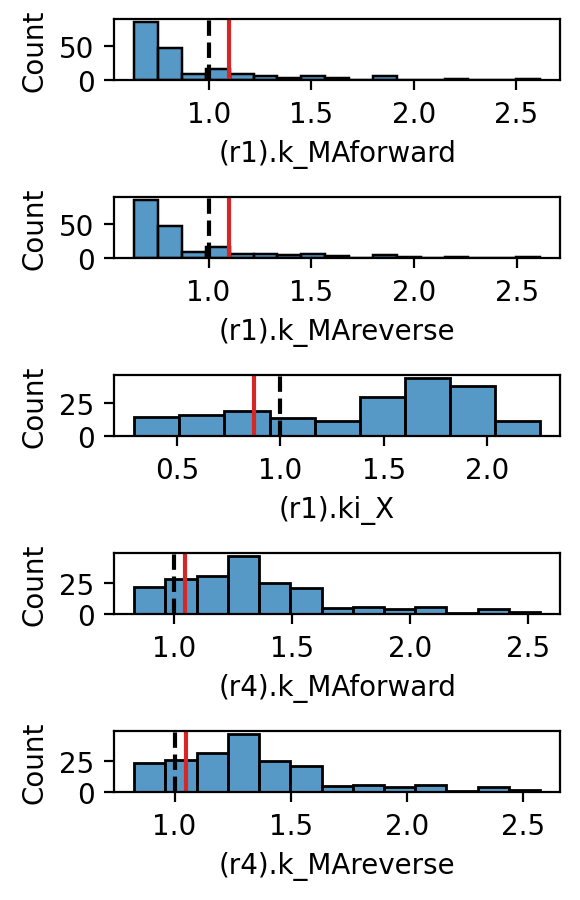
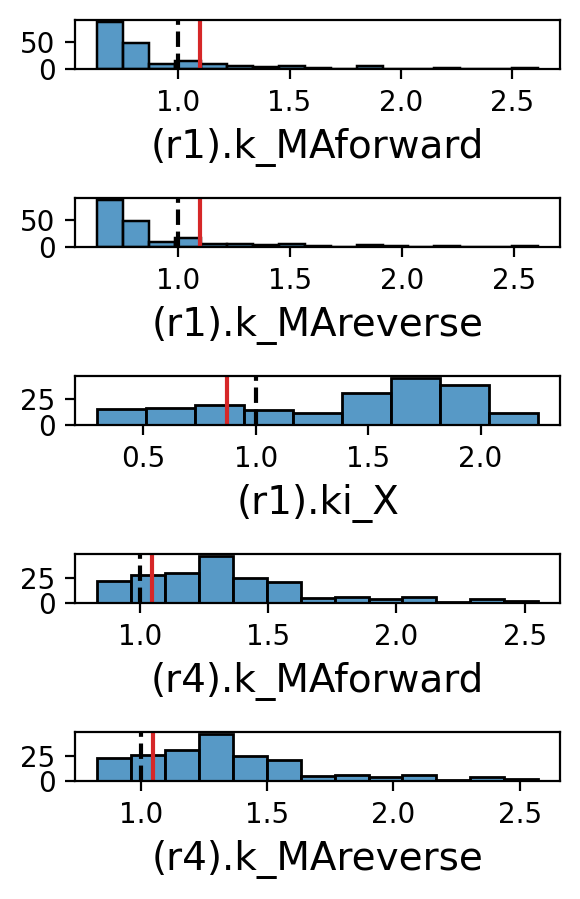
Change visualization of toymodel parameter distributions

Changed region(s): [[0.031, 0.218, 0.9621, 0.7786], [0.031, 0.8098, 0.9621, 0.9967], [0.031, 0.0, 0.9621, 0.1869]]

diff --git a/morsel/toymodel/rediscovery_test.py b/morsel/toymodel/rediscovery_test.py
@@ -106,7 +106,8 @@ for item in ([ax.title, ax.xaxis.label, ax.yaxis.label] +
 ax.legend(loc='upper right', fontsize=12)
 fig.savefig('true_model_tc.png', dpi=200, bbox_inches='tight')
 plt.close()
-# use time cours result of the true model simulation to generate 'fake experimental data' for the model selection;  store the result as it is without adding any noise to it
+# use time cours result of the true model simulation to generate 'fake experimental data' for the model selection
+## for now: just store the result as it is without adding any noise to it
 true_tc_result.columns = ['[P]', '[S]', '[X]']
 true_tc_result['[P]_0'] = pd.Series([0])
 true_tc_result['[S]_0'] = pd.Series([10])
@@ -272,10 +273,14 @@ for col, ax in zip(final_ensemble.columns[1:-1], axes.flat):
     # plot vertical line for the true parameter value (if the parameter is part of the selected model structure)
     if col in true_params.keys():
         ax.axvline(true_params[col], color='black', linestyle='dashed')
-    # set all font sizes to 12 points
-    for item in ([ax.title, ax.xaxis.label, ax.yaxis.label] +
-             ax.get_xticklabels() + ax.get_yticklabels()):
+    # set x and y label font sizes
+    for item in ([ax.xaxis.label, ax.yaxis.label]):
+        item.set_fontsize(14)
+    # set x and y tick label font
+    for item in (ax.get_xticklabels() + ax.get_yticklabels()):
         item.set_fontsize(10)
+    # hide y-axis label
+    ax.set_ylabel('')
 fig.tight_layout(rect=[0, 0.03, 1, 0.95])
 plt.savefig('final_ensemble_param_dist.png', bbox_inches='tight', dpi=200)
 
